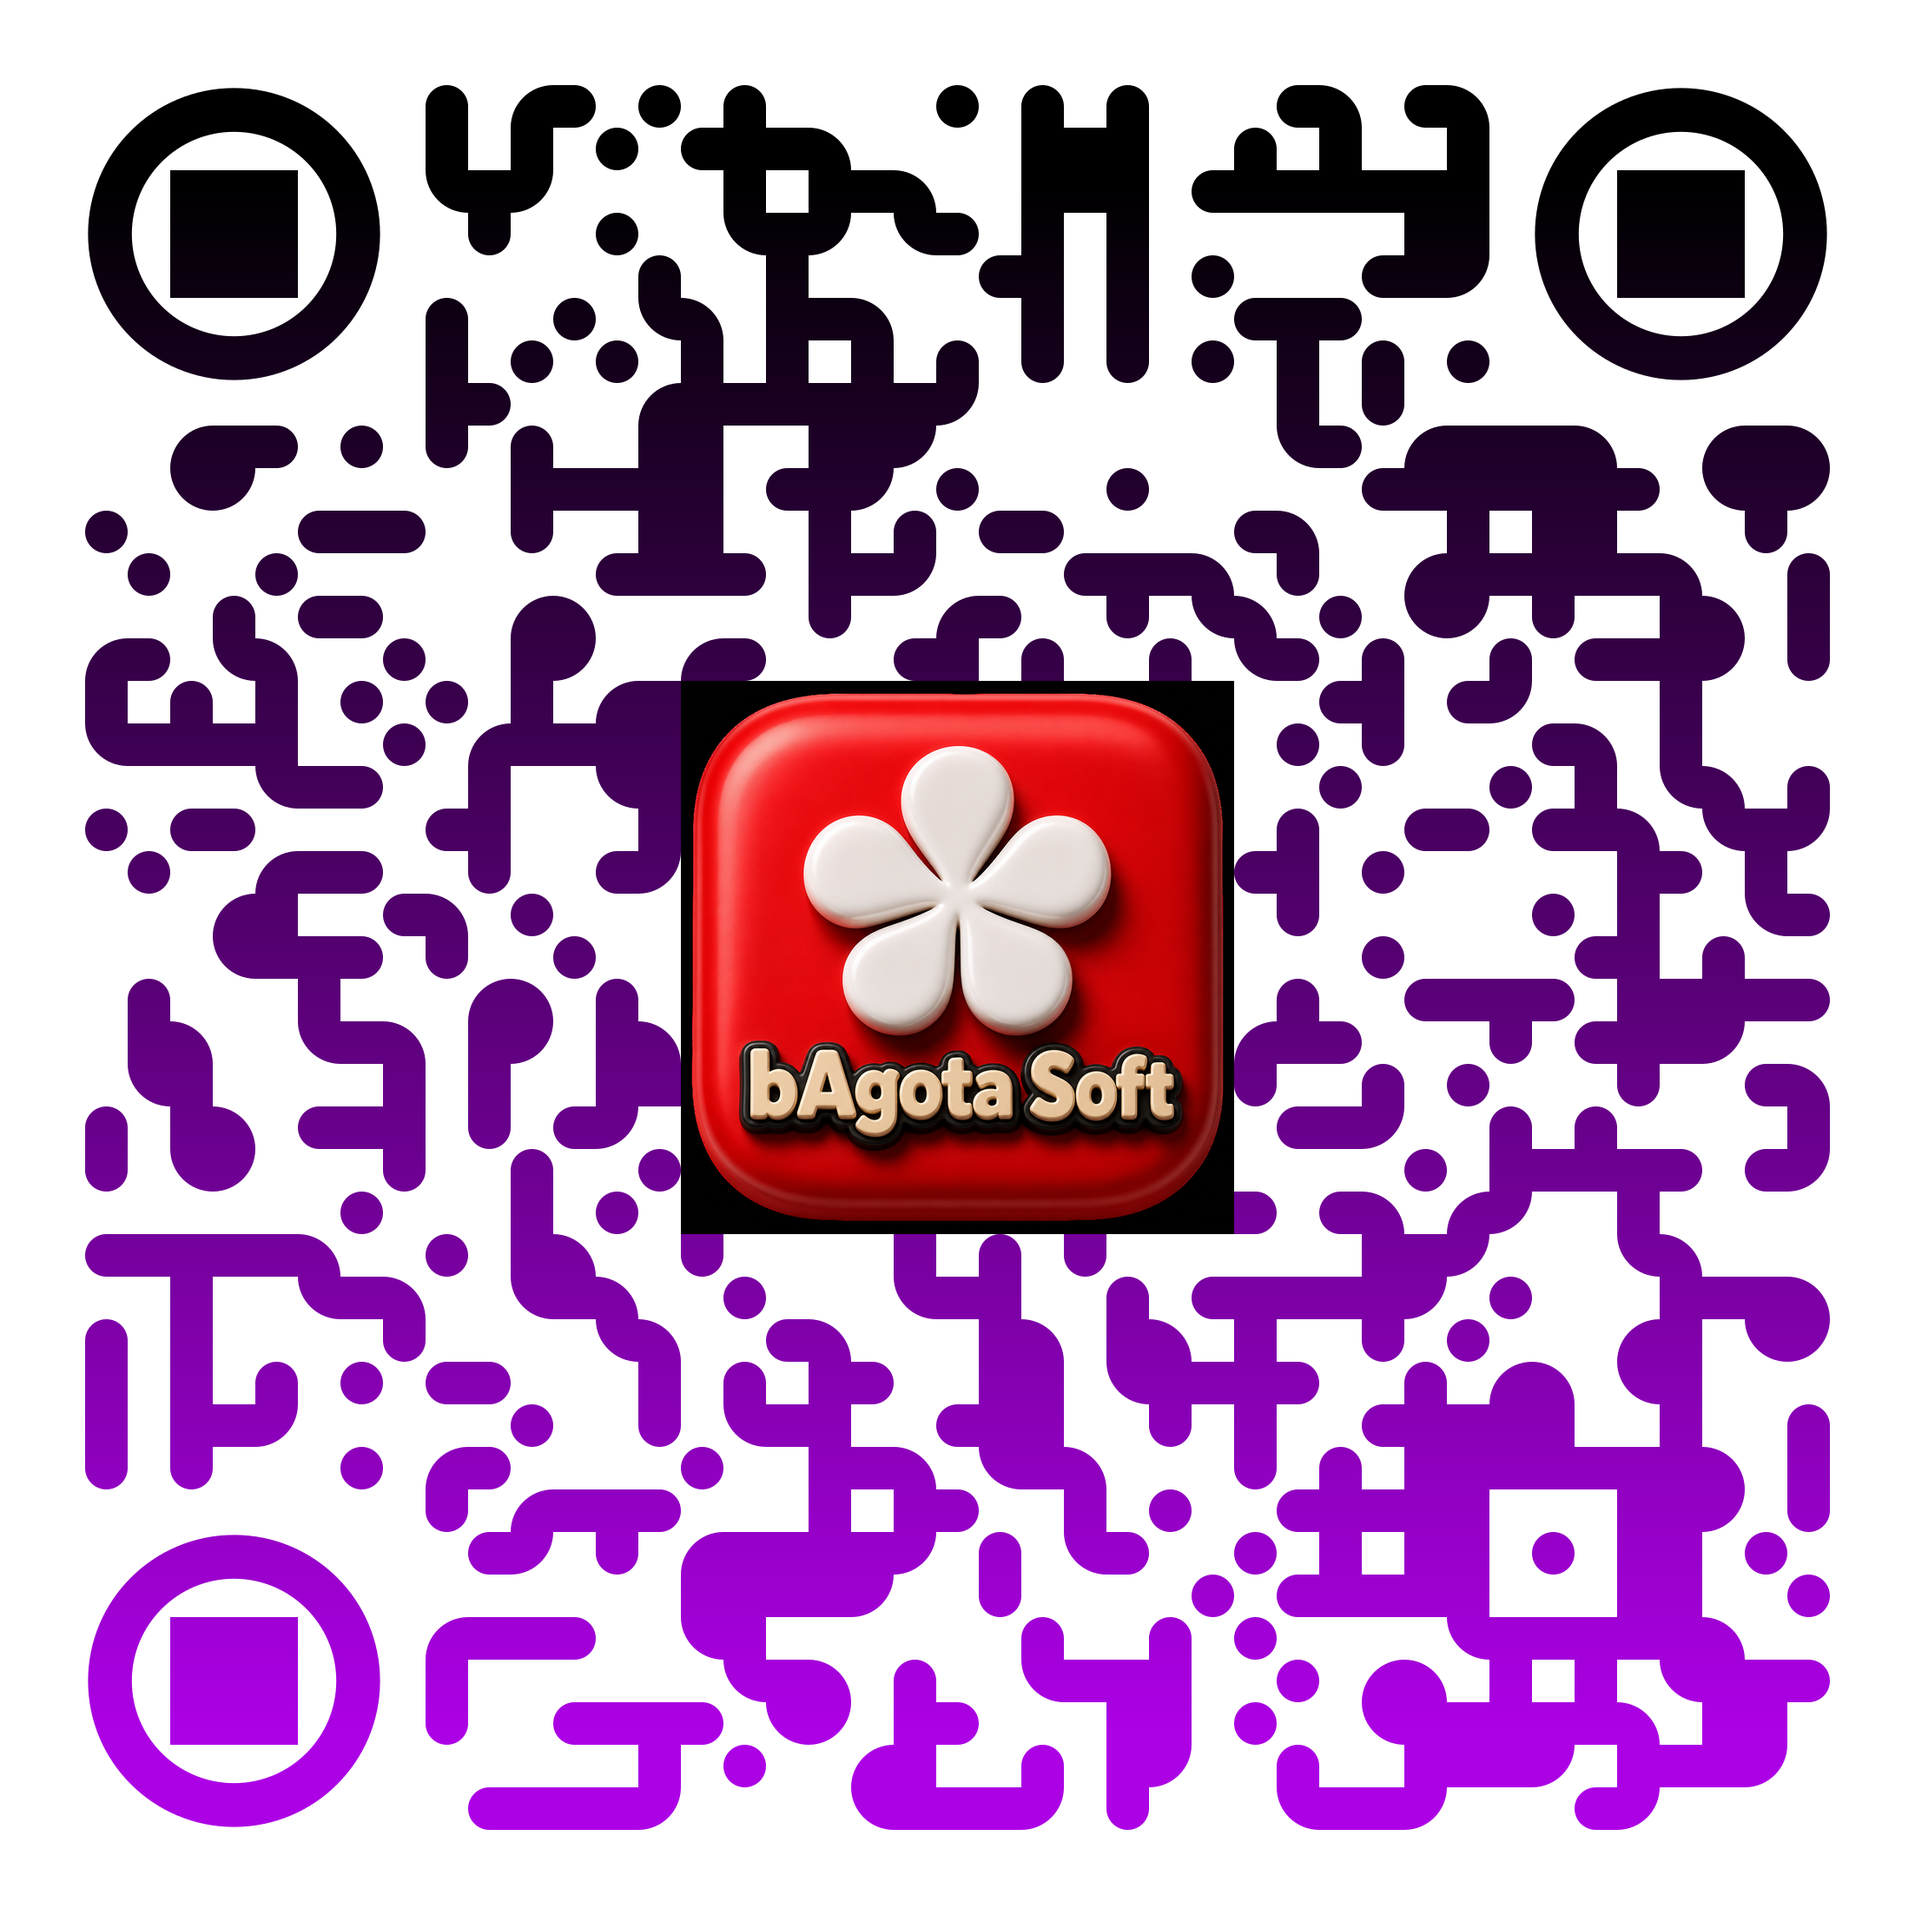
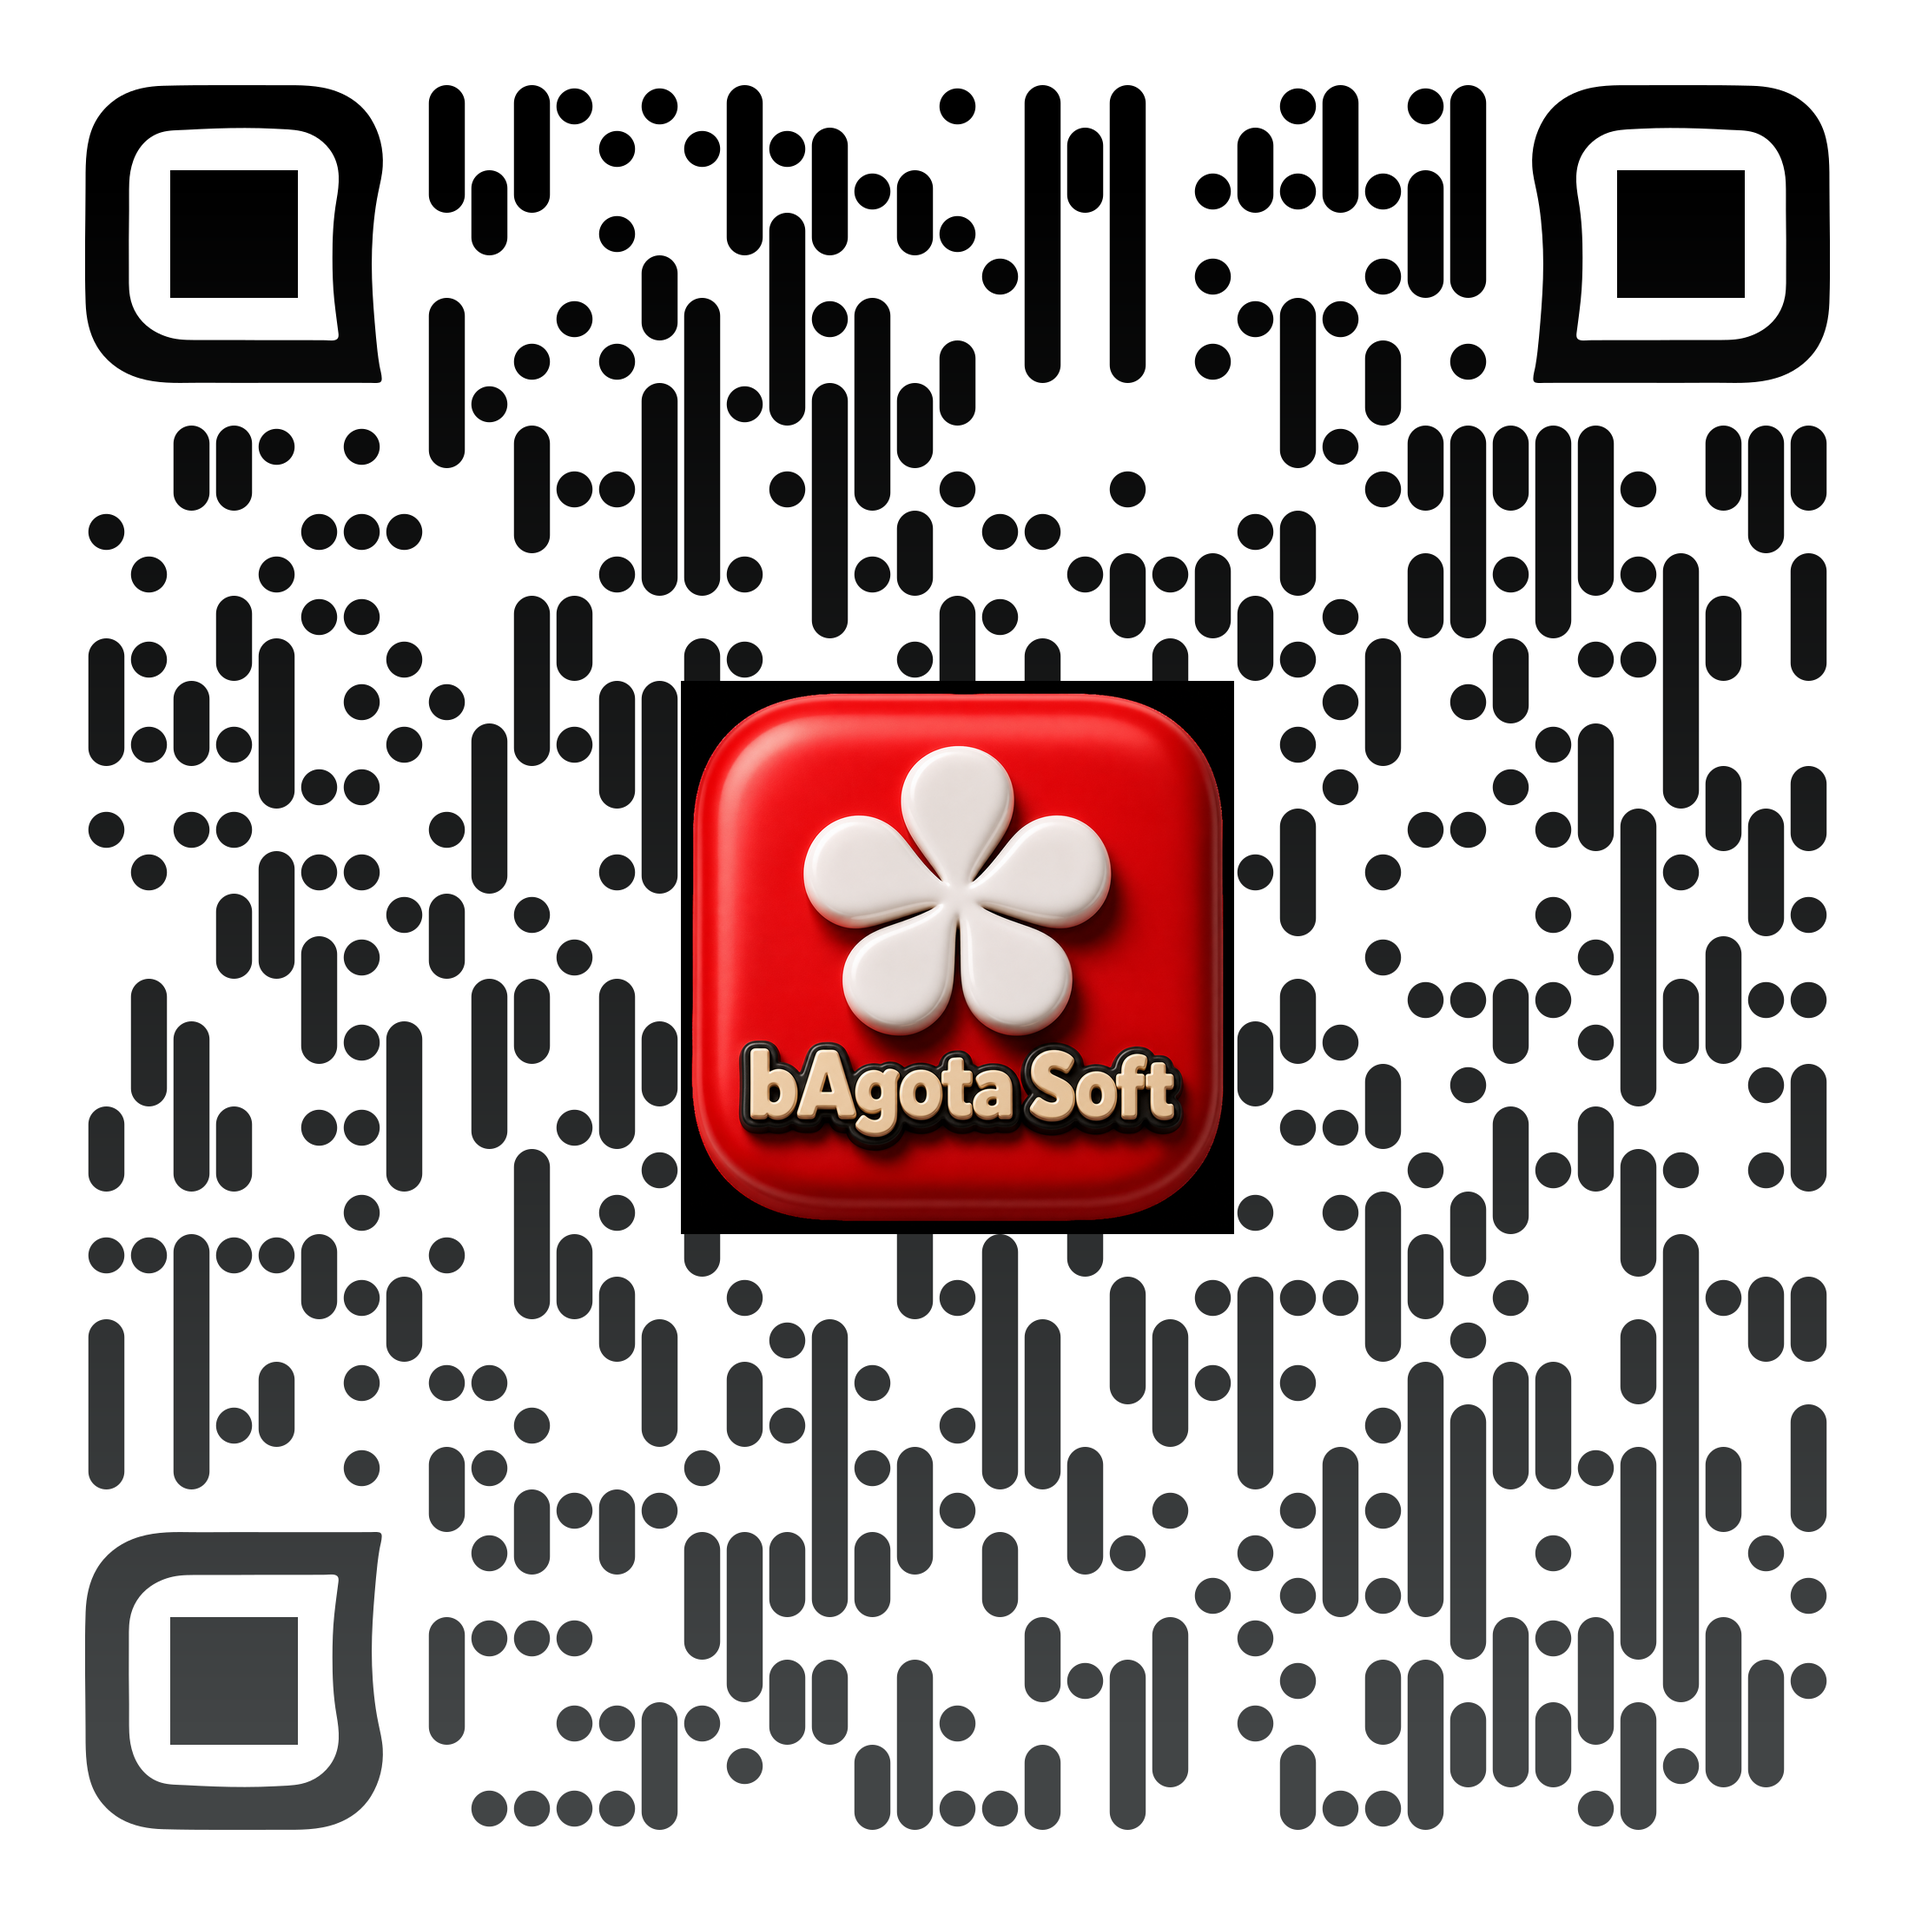
Заменил QR-код

diff --git a/index.html b/index.html
@@ -217,7 +217,7 @@ header a.bg-white { background: linear-gradient(180deg,#f7f9fb,#c9ced5) !importa
                     <i class="fas fa-qrcode text-6xl text-blue-600 mb-4"></i>
                     <p class="text-gray-700">Пример установки по QR-коду</p>
                     <div class="bg-white inline-block p-2 rounded-lg mt-2">
-    <img src="qrcode.png" width="150" height="150" alt="QR-код для установки приложения">
+    <img src="qrcode.png?v=2" width="150" height="150" alt="QR-код для установки приложения">
 </div>
                 
                 </div>
